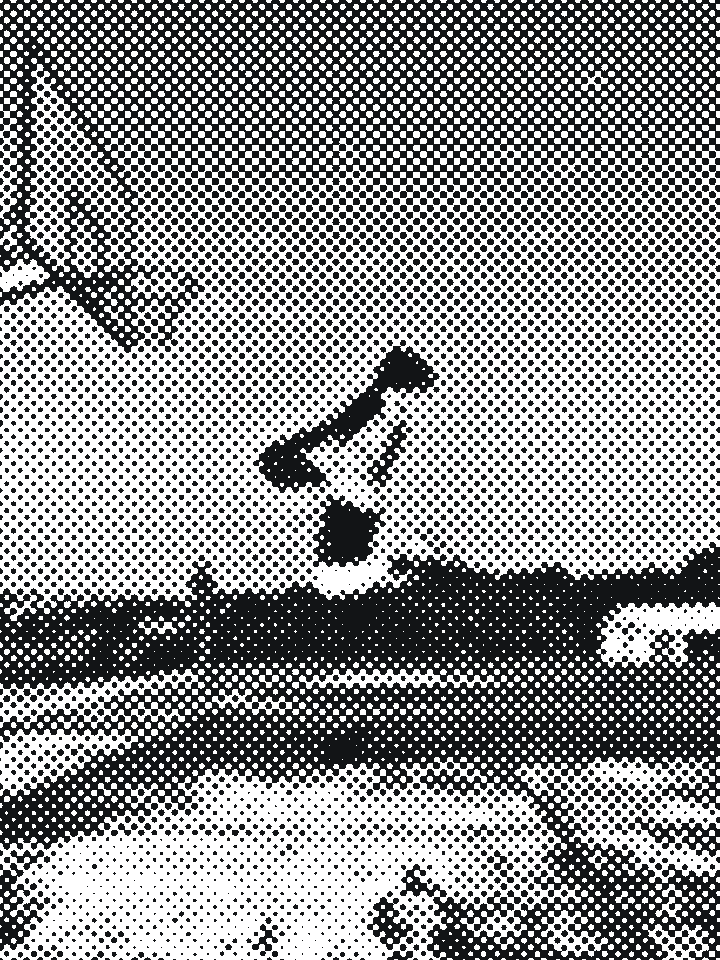
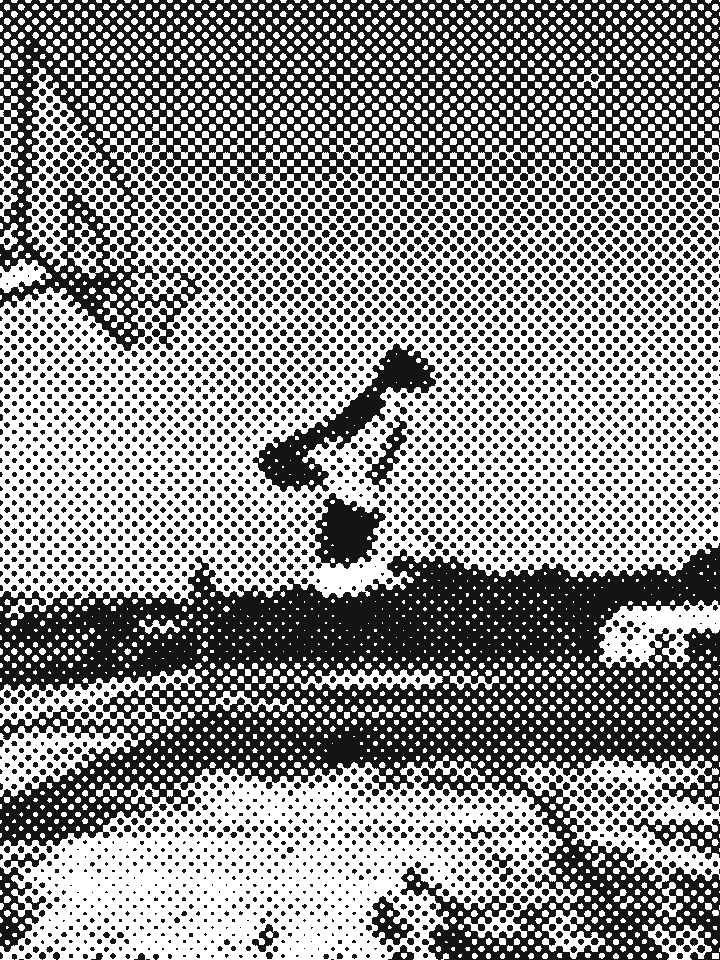
Third finish-review round for version C
- Thumbnails: 176px prints with a finer screen and tight crops on each athlete,
  so they read at 44 CSS px; Thorne's focal point moves to face and gloves.
- One screen ruling: the 960 and 440 prints are ruled so a dot cell is about
  4.2 CSS px in a board card, and cards ask for the 440 print at desktop, so
  cards and the spotlight share one screen (about 5 CSS px at 390).
- Red primaries are chosen in the templates (first agreement to sign, first
  trial to apply to, first invite); the old class-mutating helper is now a
  development-only console warning when a view shows more than one.
- Profile photo column widened so its print stays near the same ruling.

Claude-Session: https://claude.ai/code/session_01MnEfcaHLRpqbux3ic8CDXn

diff --git a/athlete-discovery/app.js b/athlete-discovery/app.js
@@ -185,7 +185,7 @@
   }
 
   // Small printed thumbnail for lists (a square crop around the athlete).
-  const athleteThumb = (a) => (a.photo ? `<img class="thumb" src="${esc(a.photo.src)}-ht-th.webp" width="112" height="112" alt="${esc(a.photo.alt)}" loading="lazy" decoding="async">` : '');
+  const athleteThumb = (a) => (a.photo ? `<img class="thumb" src="${esc(a.photo.src)}-ht-th.webp" width="176" height="176" alt="${esc(a.photo.alt)}" loading="lazy" decoding="async">` : '');
 
   // Load the colour originals for an entry the first time it is hovered or keyboard-focused.
   function warmPhotos(e) {
@@ -367,15 +367,21 @@
     renderLedger();
     if (current.route === 'athlete') renderProfile(current.id);
     $('#compareCount').textContent = S.compare.length;
-    oneSpotRed();
+    checkSpotRed();
   }
 
-  // One spot red per view: the first visible red action stays the primary;
-  // any later one in the same view is printed in ink instead.
-  function oneSpotRed() {
-    $$('main .view').forEach((v) => {
-      $$('.btn-accent', v).filter((b) => !b.closest('[hidden]')).slice(1)
-        .forEach((b) => b.classList.replace('btn-accent', 'btn-secondary'));
+  // One spot red per view. Each template chooses its own red primary (the BTN.primary
+  // class below); this is only a development check that warns when the visible view or
+  // an open dialog shows more than one. It never changes the page.
+  const BTN = { primary: 'btn btn-accent', ink: 'btn btn-secondary' };
+  const DEV = ['localhost', '127.0.0.1', ''].includes(location.hostname);
+  function checkSpotRed() {
+    if (!DEV) return;
+    requestAnimationFrame(() => {
+      const scope = document.querySelector('.modal:not([hidden]) .modal-dialog') || document.querySelector('main .view.is-active');
+      if (!scope) return;
+      const reds = $$('.btn-accent, .btn-danger', scope).filter((b) => b.offsetParent !== null);
+      if (reds.length > 1) console.warn(`Spot red: ${reds.length} red primaries in ${scope.id || scope.closest('[id]').id}:`, reds.map((b) => b.textContent.trim()));
     });
   }
 
@@ -476,6 +482,7 @@
     markNav();
     $$('.view').forEach((v) => v.classList.toggle('is-active', v.id === `section-${route}`));
     $('#ticker').hidden = route !== 'front';
+    checkSpotRed();
 
     const hash = hashFor(current);
     if (location.hash !== hash) history[push ? 'pushState' : 'replaceState'](null, '', hash);
@@ -745,9 +752,9 @@
     const prospects = byGrade(S.athletes.filter((a) => !openAgreementFor(a.id) && me.sports.includes(a.sport))).slice(0, 4);
 
     const attention = [
-      ...toSign.map((g) => {
+      ...toSign.map((g, i) => {
         const a = athleteById(g.athleteId);
-        return task({ title: `Sign the agreement with ${esc(a.name)}`, text: `${esc(a.name)}${g.guardianSigned ? ' and their guardian have' : ' has'} signed. Your signature makes it active.`, action: `<button type="button" class="btn btn-accent btn-sm" data-action="countersign" data-id="${g.id}">Review and sign</button>` });
+        return task({ title: `Sign the agreement with ${esc(a.name)}`, text: `${esc(a.name)}${g.guardianSigned ? ' and their guardian have' : ' has'} signed. Your signature makes it active.`, action: `<button type="button" class="${i === 0 ? BTN.primary : BTN.ink} btn-sm" data-action="countersign" data-id="${g.id}">Review and sign</button>` });
       }),
       ...waiting.map((g) => {
         const a = athleteById(g.athleteId);
@@ -1125,7 +1132,7 @@
 
     grid.innerHTML = list.length ? list.map((a, i) => `
       <article class="card prospect${S.compare.includes(a.id) ? ' is-circled' : ''}" style="--i:${i}">
-        ${athletePhoto(a, { sizes: '(max-width: 640px) calc(100vw - 32px), 320px', cls: 'prospect-photo' })}
+        ${athletePhoto(a, { sizes: '(max-width: 640px) calc(100vw - 32px), 290px', cls: 'prospect-photo' })}
         <div class="prospect-head">
           <div class="prospect-rank-col"><span class="prospect-rank num" title="Board rank">${ranks(a).board.rank}${penCircle(a.id)}</span>${movement(a)}</div>
           <div>
@@ -1166,10 +1173,11 @@
     else if (S.role === 'agent') parts.push(`<button type="button" class="btn btn-accent" data-action="start-agreement" data-athlete="${a.id}" data-agent="${ME.agent}">Offer representation</button>`);
 
     if (S.role === 'organization') {
+      let invites = 0;
       S.opportunities.filter((o) => o.orgId === ME.organization).forEach((o) => {
         const ap = applicationFor(a.id, o.id);
         if (ap) parts.push(`<p class="player-represented">${esc(o.title)}: ${APP_STATUS[ap.status][1].toLowerCase()}</p>`);
-        else if (!eligibility(a, o).length) parts.push(`<button type="button" class="btn btn-accent" data-action="invite" data-athlete="${a.id}" data-opp="${o.id}">Invite to ${esc(o.title.toLowerCase())}</button>`);
+        else if (!eligibility(a, o).length) parts.push(`<button type="button" class="${invites++ === 0 ? BTN.primary : BTN.ink}" data-action="invite" data-athlete="${a.id}" data-opp="${o.id}">Invite to ${esc(o.title.toLowerCase())}</button>`);
         else if (a.sport === o.sport) parts.push(`<p class="player-represented">Not eligible for your ${esc(o.title.toLowerCase())}: ${esc(eligibility(a, o).join(' '))}</p>`);
       });
     }
@@ -1214,7 +1222,7 @@
       ${crumbs}
       <header class="player-header">
         <div class="player-header-main">
-          ${athletePhoto(a, { sizes: '(max-width: 640px) calc(100vw - 32px), 200px', eager: true, cls: 'player-photo' })}
+          ${athletePhoto(a, { sizes: '(max-width: 640px) calc(100vw - 32px), 230px', eager: true, cls: 'player-photo' })}
           <div class="player-id">
             <h1 class="player-name" id="profileName">${splitName(a.name)}</h1>
             <p class="player-sport">${esc(a.sport)} · ${esc(a.position)}${a.jersey !== '—' ? ` · <span class="num">No. ${esc(a.jersey)}</span>` : ''}${isMe ? ' · your profile' : ''}</p>
@@ -1342,7 +1350,7 @@
         showToast(`Agent permission set to ${PERMISSION_LABELS[input.value][0].toLowerCase()}.`, 'success');
       }));
     }
-    oneSpotRed();
+    checkSpotRed();
   }
 
   function selectClip(i) {
@@ -1431,7 +1439,7 @@
     return '<span class="status status-info">Waiting for the agent to sign</span>';
   }
 
-  function agreementCard(g, level = 2) {
+  function agreementCard(g, level = 2, primary = true) {
     const a = athleteById(g.athleteId);
     const ag = agentById(g.agentId);
     const h = `h${level}`;
@@ -1465,14 +1473,16 @@
           <ul class="plain-list">${g.documents.map((d) => `<li>${esc(d)}</li>`).join('')}</ul>
         </div>
       </div>
-      ${canSign ? `<div class="agreement-foot"><button type="button" class="btn btn-accent btn-sm" data-action="countersign" data-id="${g.id}">Review and sign</button><span class="muted">${S.role === 'athlete' && g.guardianRequired ? 'Your parent or guardian signs after you.' : 'Your signature makes the agreement active.'}</span></div>` : ''}`;
+      ${canSign ? `<div class="agreement-foot"><button type="button" class="${primary ? BTN.primary : BTN.ink} btn-sm" data-action="countersign" data-id="${g.id}">Review and sign</button><span class="muted">${S.role === 'athlete' && g.guardianRequired ? 'Your parent or guardian signs after you.' : 'Your signature makes the agreement active.'}</span></div>` : ''}`;
   }
 
   // Pending first: those are the ones somebody needs to act on.
   const pendingFirst = (list) => [...list].sort((x, y) => (x.status === y.status ? 0 : x.status === 'pending' ? -1 : 1));
 
   function renderAgreementList(el, list, emptyHtml) {
-    el.innerHTML = list.length ? pendingFirst(list).map((g) => `<article class="card agreement-wrap">${agreementCard(g)}</article>`).join('') : emptyHtml;
+    let reds = 0;
+    const mineToSign = (g) => g.status === 'pending' && ((S.role === 'agent' && g.agentId === ME.agent && !g.agentSigned) || (S.role === 'athlete' && g.athleteId === ME.athlete && !g.athleteSigned));
+    el.innerHTML = list.length ? pendingFirst(list).map((g) => `<article class="card agreement-wrap">${agreementCard(g, 2, mineToSign(g) && reds++ === 0)}</article>`).join('') : emptyHtml;
   }
 
   function renderClients() {
@@ -1956,6 +1966,8 @@
     });
 
     const intro = S.role === 'visitor' ? visitorNote('Athletes apply here, and agents apply for their clients. Try the demo to see how.', [['athlete:ath-01', 'Try it as an athlete'], ['agent', 'Try it as an agent']]) : '';
+    let reds = 0;
+    const applyClass = () => (reds++ === 0 ? BTN.primary : BTN.ink);
     list.innerHTML = intro + sorted.map((o, i) => {
       let side = '';
       let foot = '';
@@ -1964,7 +1976,7 @@
         const ap = applicationFor(me.id, o.id);
         const reasons = eligibility(me, o, { ignoreExisting: true });
         if (ap) side = `${appStatusMarkup(ap)}<span class="cell-sub">${ap.via === 'club' ? 'Invited' : 'Sent'} ${formatDate(ap.date)}</span>`;
-        else if (!reasons.length) side = `<button type="button" class="btn btn-accent" data-action="apply" data-id="${o.id}">Apply</button>`;
+        else if (!reasons.length) side = `<button type="button" class="${applyClass()}" data-action="apply" data-id="${o.id}">Apply</button>`;
         // The verdict leads the card: it is the first thing an athlete needs to know.
         if (!ap) {
           const verifyBlocked = levelIndex(me.verification) < levelIndex(o.minVerification);
@@ -1973,7 +1985,7 @@
       } else if (S.role === 'agent') {
         const ready = people.filter((c) => eligibility(c, o).length === 0);
         const sent = S.applications.filter((ap) => ap.oppId === o.id && people.some((c) => c.id === ap.athleteId));
-        if (ready.length) side = `<button type="button" class="btn btn-accent" data-action="apply" data-id="${o.id}">Apply for a client</button>`;
+        if (ready.length) side = `<button type="button" class="${applyClass()}" data-action="apply" data-id="${o.id}">Apply for a client</button>`;
         foot = `<p class="fit ${ready.length ? 'fit-yes' : 'fit-no'}">${ready.length ? `Clients who qualify: ${ready.map((c) => esc(c.name)).join(', ')}.` : people.length ? 'None of your clients qualify.' : 'You don’t represent anyone yet.'}</p>
           ${sent.length ? `<ul class="plain-list">${sent.map((ap) => `<li class="row-split"><span>${esc(athleteById(ap.athleteId).name)} · ${formatDate(ap.date)}</span>${appStatusMarkup(ap)}</li>`).join('')}</ul>` : ''}`;
       } else if (S.role === 'visitor') {

diff --git a/athlete-discovery/styles.css b/athlete-discovery/styles.css
@@ -650,7 +650,7 @@ p, .view-lede, .agent-bio, .timeline-note { text-wrap: pretty; }
 
 .player-header { background: var(--paper); color: var(--text); border: 1px solid var(--rule); border-top: 6px solid var(--rule); }
 .player-header-main {
-  display: grid; grid-template-columns: 190px minmax(0, 1.3fr) minmax(0, 1fr) auto; gap: 20px 32px;
+  display: grid; grid-template-columns: 230px minmax(0, 1.3fr) minmax(0, 1fr) auto; gap: 20px 32px;
   padding: 24px 28px; align-items: end;
 }
 .player-photo { aspect-ratio: 4 / 5; align-self: stretch; border: 1px solid var(--rule); }
@@ -1171,7 +1171,7 @@ p, .view-lede, .agent-bio, .timeline-note { text-wrap: pretty; }
 @media (max-width: 1180px) {
   .filter-row { grid-template-columns: repeat(3, minmax(0, 1fr)); }
   .perm-grid { grid-template-columns: repeat(2, minmax(0, 1fr)); }
-  .player-header-main { grid-template-columns: 170px minmax(0, 1fr) minmax(0, 1fr); }
+  .player-header-main { grid-template-columns: 210px minmax(0, 1fr) minmax(0, 1fr); }
   .player-side { grid-column: 1 / -1; flex-direction: row; justify-content: space-between; align-items: flex-end; flex-wrap: wrap; }
   .player-actions { flex-direction: row; flex-wrap: wrap; min-width: 0; }
 }

diff --git a/athlete-discovery/index.html b/athlete-discovery/index.html
@@ -20,7 +20,7 @@
   <link rel="preconnect" href="https://fonts.gstatic.com" crossorigin>
   <link href="https://fonts.googleapis.com/css2?family=Archivo:wdth,wght@62..100,400..900&display=swap" rel="stylesheet">
   <!-- Bump ?v= on styles.css, data.js and app.js whenever they change, so browsers never mix a new page with old cached files. -->
-  <link rel="stylesheet" href="styles.css?v=20261008-lite4">
+  <link rel="stylesheet" href="styles.css?v=20261008-lite5">
   <script>
     // Apply a saved theme before first paint so there's no flash.
     try { var t = localStorage.getItem('aax-theme'); if (t === 'dark' || t === 'light') document.documentElement.dataset.theme = t; } catch (e) {}
@@ -628,7 +628,7 @@
     </div>
   </footer>
 
-  <script src="data.js?v=20261008-lite4"></script>
-  <script src="app.js?v=20261008-lite4"></script>
+  <script src="data.js?v=20261008-lite5"></script>
+  <script src="app.js?v=20261008-lite5"></script>
 </body>
 </html>

diff --git a/athlete-discovery/data.js b/athlete-discovery/data.js
@@ -332,7 +332,7 @@ window.AAX_DATA = {
     },
     {
       id: 'ath-08',
-      photo: { src: 'img/ath-08', w: 640, h: 960, pos: '50% 30%', alt: 'A boxer in black gloves in a guard stance' },
+      photo: { src: 'img/ath-08', w: 640, h: 960, pos: '50% 42%', alt: 'A boxer in black gloves in a guard stance' },
       prevRank: 5,
       gradeHistory: [94.5, 95.2, 95.9, 96.4, 96.9, 97.8],
       name: 'Malik Thorne',

diff --git a/athlete-discovery/img/CREDITS.md b/athlete-discovery/img/CREDITS.md
@@ -20,5 +20,7 @@ identifiable face. Each WebP also carries its source URL in its metadata.
 
 `ath-XX-ht.webp`, `ath-XX-ht-sm.webp` and `ath-XX-ht-th.webp` are printed versions made in code from
 the colour originals above: an amplitude-modulated halftone (round dots on a 45° screen, dot area
-set by tone, per-photo tone correction so the athlete reads), two colours, lossless WebP. The
-`-th` file is a 112px square thumbnail. Each file's `.json` sidecar records exactly how it was made.
+set by tone, per-photo tone correction so the athlete reads), two colours, lossless WebP. The 960 and
+440 prints share one screen ruling: a dot cell is about 4.2 CSS px when a print fills a board card.
+The `-th` file is a 176px square thumbnail, tightly cropped on the athlete, with a finer screen so
+the athlete reads at 44 CSS px. Each file's `.json` sidecar records exactly how it was made.
